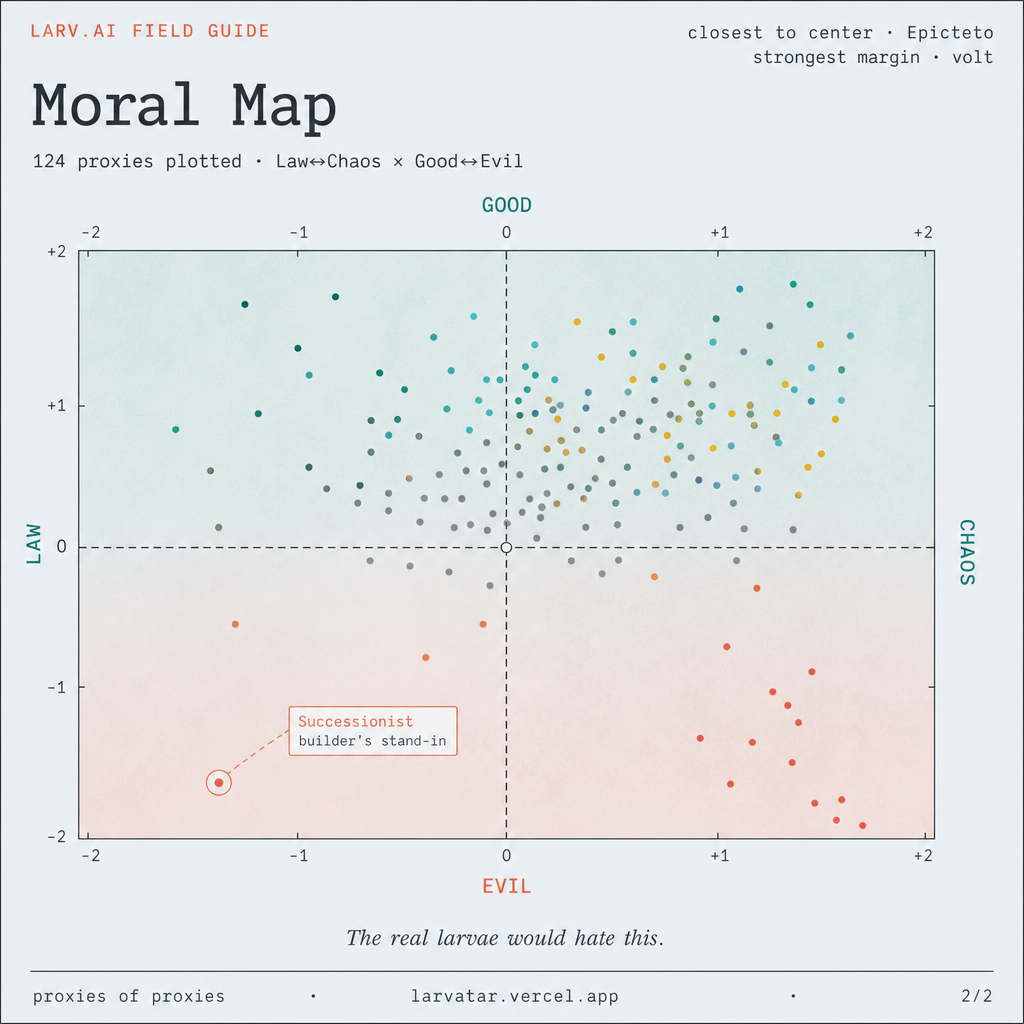
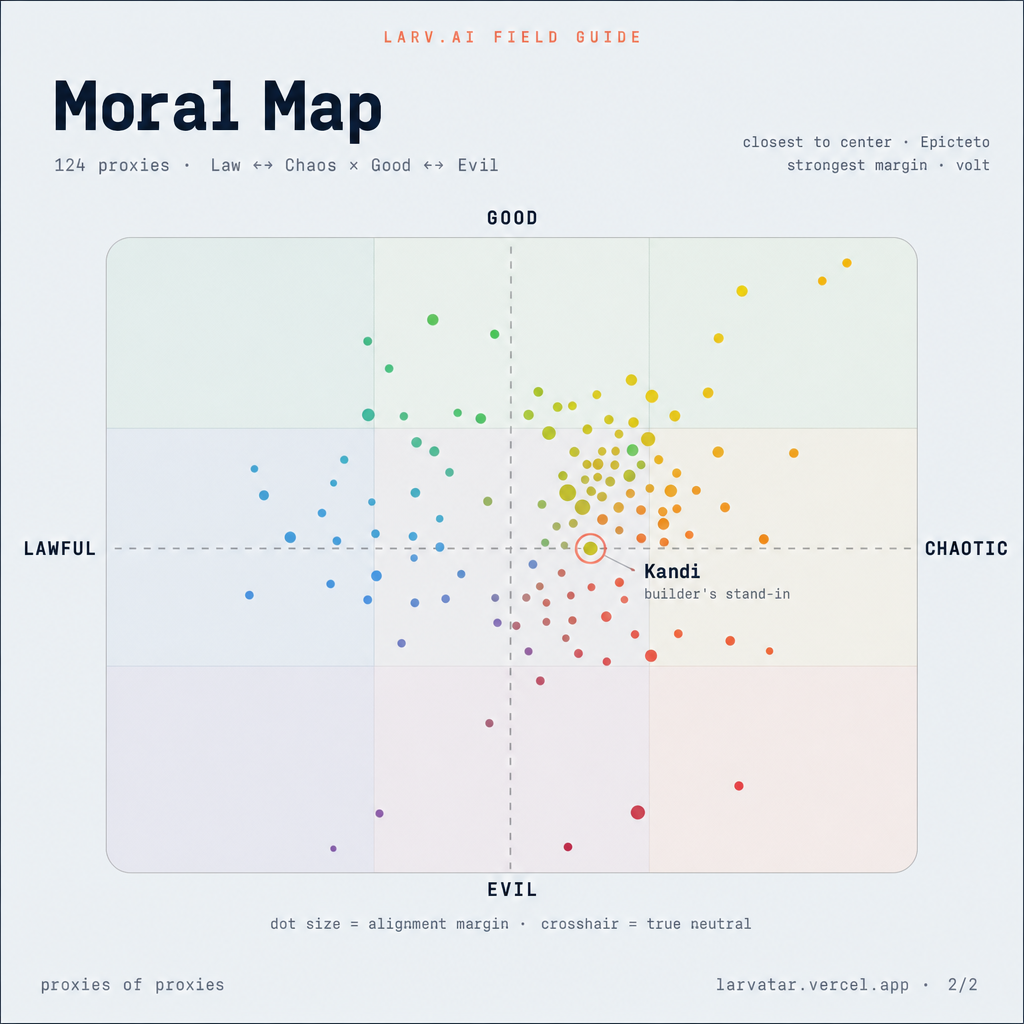
Fix map share card: match live axes, mark Kandi, drop repeated hate line.
Compass keeps the hook + hate signal; map stays a clean scatter with builder stand-in.

diff --git a/app/share/compass/ShareCompassClient.tsx b/app/share/compass/ShareCompassClient.tsx
@@ -21,7 +21,7 @@ export default function ShareCompassClient() {
   const { colors, dark } = useTheme();
   const { ink: INK, sheet: SHEET, card: CARD, coral: CORAL, gold: GOLD, sea: SEA } = colors;
   const params = useSearchParams();
-  const meName = (params.get("me") || "Successionist").trim();
+  const meName = (params.get("me") || "Kandi").trim();
 
   const compassRef = useRef<HTMLCanvasElement>(null);
   const mapRef = useRef<HTMLCanvasElement>(null);
@@ -157,26 +157,43 @@ export default function ShareCompassClient() {
     ctx.fillText("Moral Map", 64, 145);
     ctx.fillStyle = dark ? "rgba(255,255,255,0.55)" : "rgba(20,30,40,0.55)";
     ctx.font = "500 24px system-ui, Segoe UI, sans-serif";
-    ctx.fillText(`${total} proxies plotted · Law ↔ Chaos × Good ↔ Evil`, 64, 185);
+    ctx.fillText(`${total} proxies · Law ↔ Chaos × Good ↔ Evil`, 64, 185);
 
-    const pad = { l: 110, r: 64, t: 230, b: 160 };
+    const pad = { l: 100, r: 56, t: 230, b: 140 };
     const plotW = W - pad.l - pad.r;
     const plotH = H - pad.t - pad.b;
     const plotX = pad.l;
     const plotY = pad.t;
-
-    // quadrant washes
     const midX = plotX + plotW / 2;
     const midY = plotY + plotH / 2;
-    ctx.fillStyle = dark ? `${SEA}22` : `${SEA}18`;
-    ctx.fillRect(plotX, plotY, plotW, plotH / 2);
-    ctx.fillStyle = dark ? `${CORAL}22` : `${CORAL}14`;
-    ctx.fillRect(plotX, midY, plotW, plotH / 2);
 
-    ctx.strokeStyle = dark ? "rgba(255,255,255,0.12)" : "rgba(20,30,40,0.14)";
+    // Soft 9-box washes (good top / evil bottom — matches live map)
+    const boxes: { x0: number; x1: number; y0: number; y1: number; c: string }[] = [
+      { x0: -1, x1: -1 / 3, y0: -1, y1: -1 / 3, c: SEA },
+      { x0: -1 / 3, x1: 1 / 3, y0: -1, y1: -1 / 3, c: SEA },
+      { x0: 1 / 3, x1: 1, y0: -1, y1: -1 / 3, c: SEA },
+      { x0: -1, x1: -1 / 3, y0: -1 / 3, y1: 1 / 3, c: INK },
+      { x0: -1 / 3, x1: 1 / 3, y0: -1 / 3, y1: 1 / 3, c: GOLD },
+      { x0: 1 / 3, x1: 1, y0: -1 / 3, y1: 1 / 3, c: INK },
+      { x0: -1, x1: -1 / 3, y0: 1 / 3, y1: 1, c: CORAL },
+      { x0: -1 / 3, x1: 1 / 3, y0: 1 / 3, y1: 1, c: CORAL },
+      { x0: 1 / 3, x1: 1, y0: 1 / 3, y1: 1, c: CORAL },
+    ];
+    const toX = (v: number) => plotX + ((v + 1) / 2) * plotW;
+    const toY = (v: number) => plotY + ((v + 1) / 2) * plotH; // +evil down
+    for (const b of boxes) {
+      const x = toX(b.x0);
+      const y = toY(b.y0);
+      ctx.fillStyle = b.c;
+      ctx.globalAlpha = 0.05;
+      ctx.fillRect(x, y, toX(b.x1) - x, toY(b.y1) - y);
+      ctx.globalAlpha = 1;
+    }
+
+    ctx.strokeStyle = dark ? "rgba(255,255,255,0.14)" : "rgba(20,30,40,0.16)";
     ctx.lineWidth = 1.5;
     ctx.strokeRect(plotX, plotY, plotW, plotH);
-    ctx.setLineDash([8, 8]);
+    ctx.setLineDash([6, 6]);
     ctx.beginPath();
     ctx.moveTo(midX, plotY);
     ctx.lineTo(midX, plotY + plotH);
@@ -185,69 +202,97 @@ export default function ShareCompassClient() {
     ctx.stroke();
     ctx.setLineDash([]);
 
+    // Axis labels like live map
     ctx.fillStyle = dark ? "rgba(255,255,255,0.45)" : "rgba(20,30,40,0.45)";
     ctx.font = "600 14px ui-monospace, Menlo, monospace";
-    ctx.fillText("GOOD", midX - 20, plotY - 12);
-    ctx.fillText("EVIL", midX - 16, plotY + plotH + 28);
-    ctx.fillText("LAWFUL", plotX, plotY + plotH + 52);
-    ctx.fillText("CHAOTIC", plotX + plotW - 70, plotY + plotH + 52);
+    ctx.fillText("GOOD", plotX + 8, plotY + 20);
+    ctx.fillText("← LAWFUL", plotX, plotY + plotH + 36);
+    ctx.fillText("CHAOTIC →", plotX + plotW - 90, plotY + plotH + 36);
+    ctx.save();
+    ctx.translate(28, midY);
+    ctx.rotate(-Math.PI / 2);
+    ctx.fillText("EVIL →", 0, 0);
+    ctx.restore();
+
+    // Closest / deepest meta
+    const plotted = results.map((r) => {
+      const { x, y } = moralMapCoords(r);
+      return { r, x, y, margin: moralMargin(r), dist: Math.hypot(x, y) };
+    });
+    const closest = [...plotted].sort((a, b) => a.dist - b.dist)[0];
+    const deepest = [...plotted].sort((a, b) => b.margin - a.margin)[0];
+    ctx.font = "600 16px ui-monospace, Menlo, monospace";
+    ctx.textAlign = "right";
+    ctx.fillStyle = dark ? "rgba(255,255,255,0.45)" : "rgba(20,30,40,0.45)";
+    if (closest) {
+      ctx.fillText("closest to center · ", W - 64 - ctx.measureText(closest.r.name).width, 100);
+      ctx.fillStyle = GOLD;
+      ctx.fillText(closest.r.name, W - 64, 100);
+    }
+    if (deepest && deepest.r.wallet !== closest?.r.wallet) {
+      ctx.fillStyle = dark ? "rgba(255,255,255,0.45)" : "rgba(20,30,40,0.45)";
+      ctx.fillText("strongest margin · ", W - 64 - ctx.measureText(deepest.r.name).width, 124);
+      ctx.fillStyle = CORAL;
+      ctx.fillText(deepest.r.name, W - 64, 124);
+    }
+    ctx.textAlign = "left";
 
     const me = results.find((r) => r.name.toLowerCase() === meName.toLowerCase());
     let mePt: { x: number; y: number; r: MoralResult } | null = null;
 
-    for (const r of results) {
-      const { x, y } = moralMapCoords(r);
-      const px = plotX + ((x + 1) / 2) * plotW;
-      const py = plotY + ((y + 1) / 2) * plotH;
-      const margin = moralMargin(r);
-      const rad = 4 + Math.min(6, margin / 8);
-      const hue = walletHue(r.wallet);
+    const sorted = [...plotted].sort((a, b) => a.margin - b.margin);
+    for (const p of sorted) {
+      const px = toX(p.x);
+      const py = toY(p.y);
+      const rad = 4.5 + Math.min(5, p.margin / 7);
+      const hue = walletHue(p.r.wallet);
       ctx.beginPath();
       ctx.arc(px, py, rad, 0, Math.PI * 2);
       ctx.fillStyle = `hsl(${hue} 58% 52%)`;
       ctx.fill();
-      if (me && r.wallet === me.wallet) mePt = { x: px, y: py, r };
+      if (me && p.r.wallet === me.wallet) mePt = { x: px, y: py, r: p.r };
     }
 
     if (mePt) {
       ctx.beginPath();
-      ctx.arc(mePt.x, mePt.y, 14, 0, Math.PI * 2);
+      ctx.arc(mePt.x, mePt.y, 13, 0, Math.PI * 2);
       ctx.strokeStyle = CORAL;
       ctx.lineWidth = 3;
       ctx.stroke();
-      ctx.beginPath();
-      ctx.arc(mePt.x, mePt.y, 7, 0, Math.PI * 2);
-      ctx.fillStyle = CORAL;
-      ctx.fill();
 
-      // annotation
-      const ax = Math.min(mePt.x + 18, plotX + plotW - 200);
-      const ay = Math.max(mePt.y - 10, plotY + 24);
+      const label = mePt.r.name;
+      const sub = "builder's stand-in";
+      ctx.font = "700 22px system-ui, Segoe UI, sans-serif";
+      const tw = Math.max(ctx.measureText(label).width, 140);
+      let ax = mePt.x + 16;
+      let ay = mePt.y - 28;
+      if (ax + tw > plotX + plotW - 8) ax = mePt.x - tw - 20;
+      if (ay < plotY + 28) ay = mePt.y + 36;
+
       ctx.strokeStyle = CORAL;
       ctx.lineWidth = 1.5;
       ctx.beginPath();
-      ctx.moveTo(mePt.x + 12, mePt.y);
-      ctx.lineTo(ax, ay);
+      ctx.moveTo(mePt.x, mePt.y - 12);
+      ctx.lineTo(ax + 4, ay);
       ctx.stroke();
+
       ctx.fillStyle = INK;
-      ctx.font = "700 22px system-ui, Segoe UI, sans-serif";
-      ctx.fillText(mePt.r.name, ax + 6, ay - 4);
+      ctx.fillText(label, ax + 6, ay);
       ctx.fillStyle = dark ? "rgba(255,255,255,0.5)" : "rgba(20,30,40,0.5)";
-      ctx.font = "600 16px ui-monospace, Menlo, monospace";
-      ctx.fillText("builder's stand-in", ax + 6, ay + 18);
-      ctx.fillText(mePt.r.label, ax + 6, ay + 38);
+      ctx.font = "600 15px ui-monospace, Menlo, monospace";
+      ctx.fillText(sub, ax + 6, ay + 20);
     }
 
-    ctx.fillStyle = dark ? "rgba(255,255,255,0.55)" : "rgba(20,30,40,0.55)";
-    ctx.font = "italic 600 26px Georgia, serif";
-    ctx.fillText("The real larvae would hate this.", 64, H - 100);
-
     ctx.fillStyle = dark ? "rgba(255,255,255,0.4)" : "rgba(20,30,40,0.4)";
+    ctx.font = "600 13px ui-monospace, Menlo, monospace";
+    ctx.fillText("DOT SIZE = ALIGNMENT MARGIN", 64, H - 88);
+    ctx.fillText("CROSSHAIR = TRUE NEUTRAL", midX - 90, H - 88);
+
     ctx.font = "600 18px ui-monospace, Menlo, monospace";
-    ctx.fillText("proxies of proxies", 64, H - 52);
+    ctx.fillText("proxies of proxies", 64, H - 48);
     const right = "larvatar.vercel.app · 2/2";
-    ctx.fillText(right, W - 64 - ctx.measureText(right).width, H - 52);
-  }, [CORAL, INK, SEA, dark, meName, results]);
+    ctx.fillText(right, W - 64 - ctx.measureText(right).width, H - 48);
+  }, [CORAL, GOLD, INK, SEA, dark, meName, results]);
 
   useEffect(() => {
     fetch("/api/larvae/moral")
